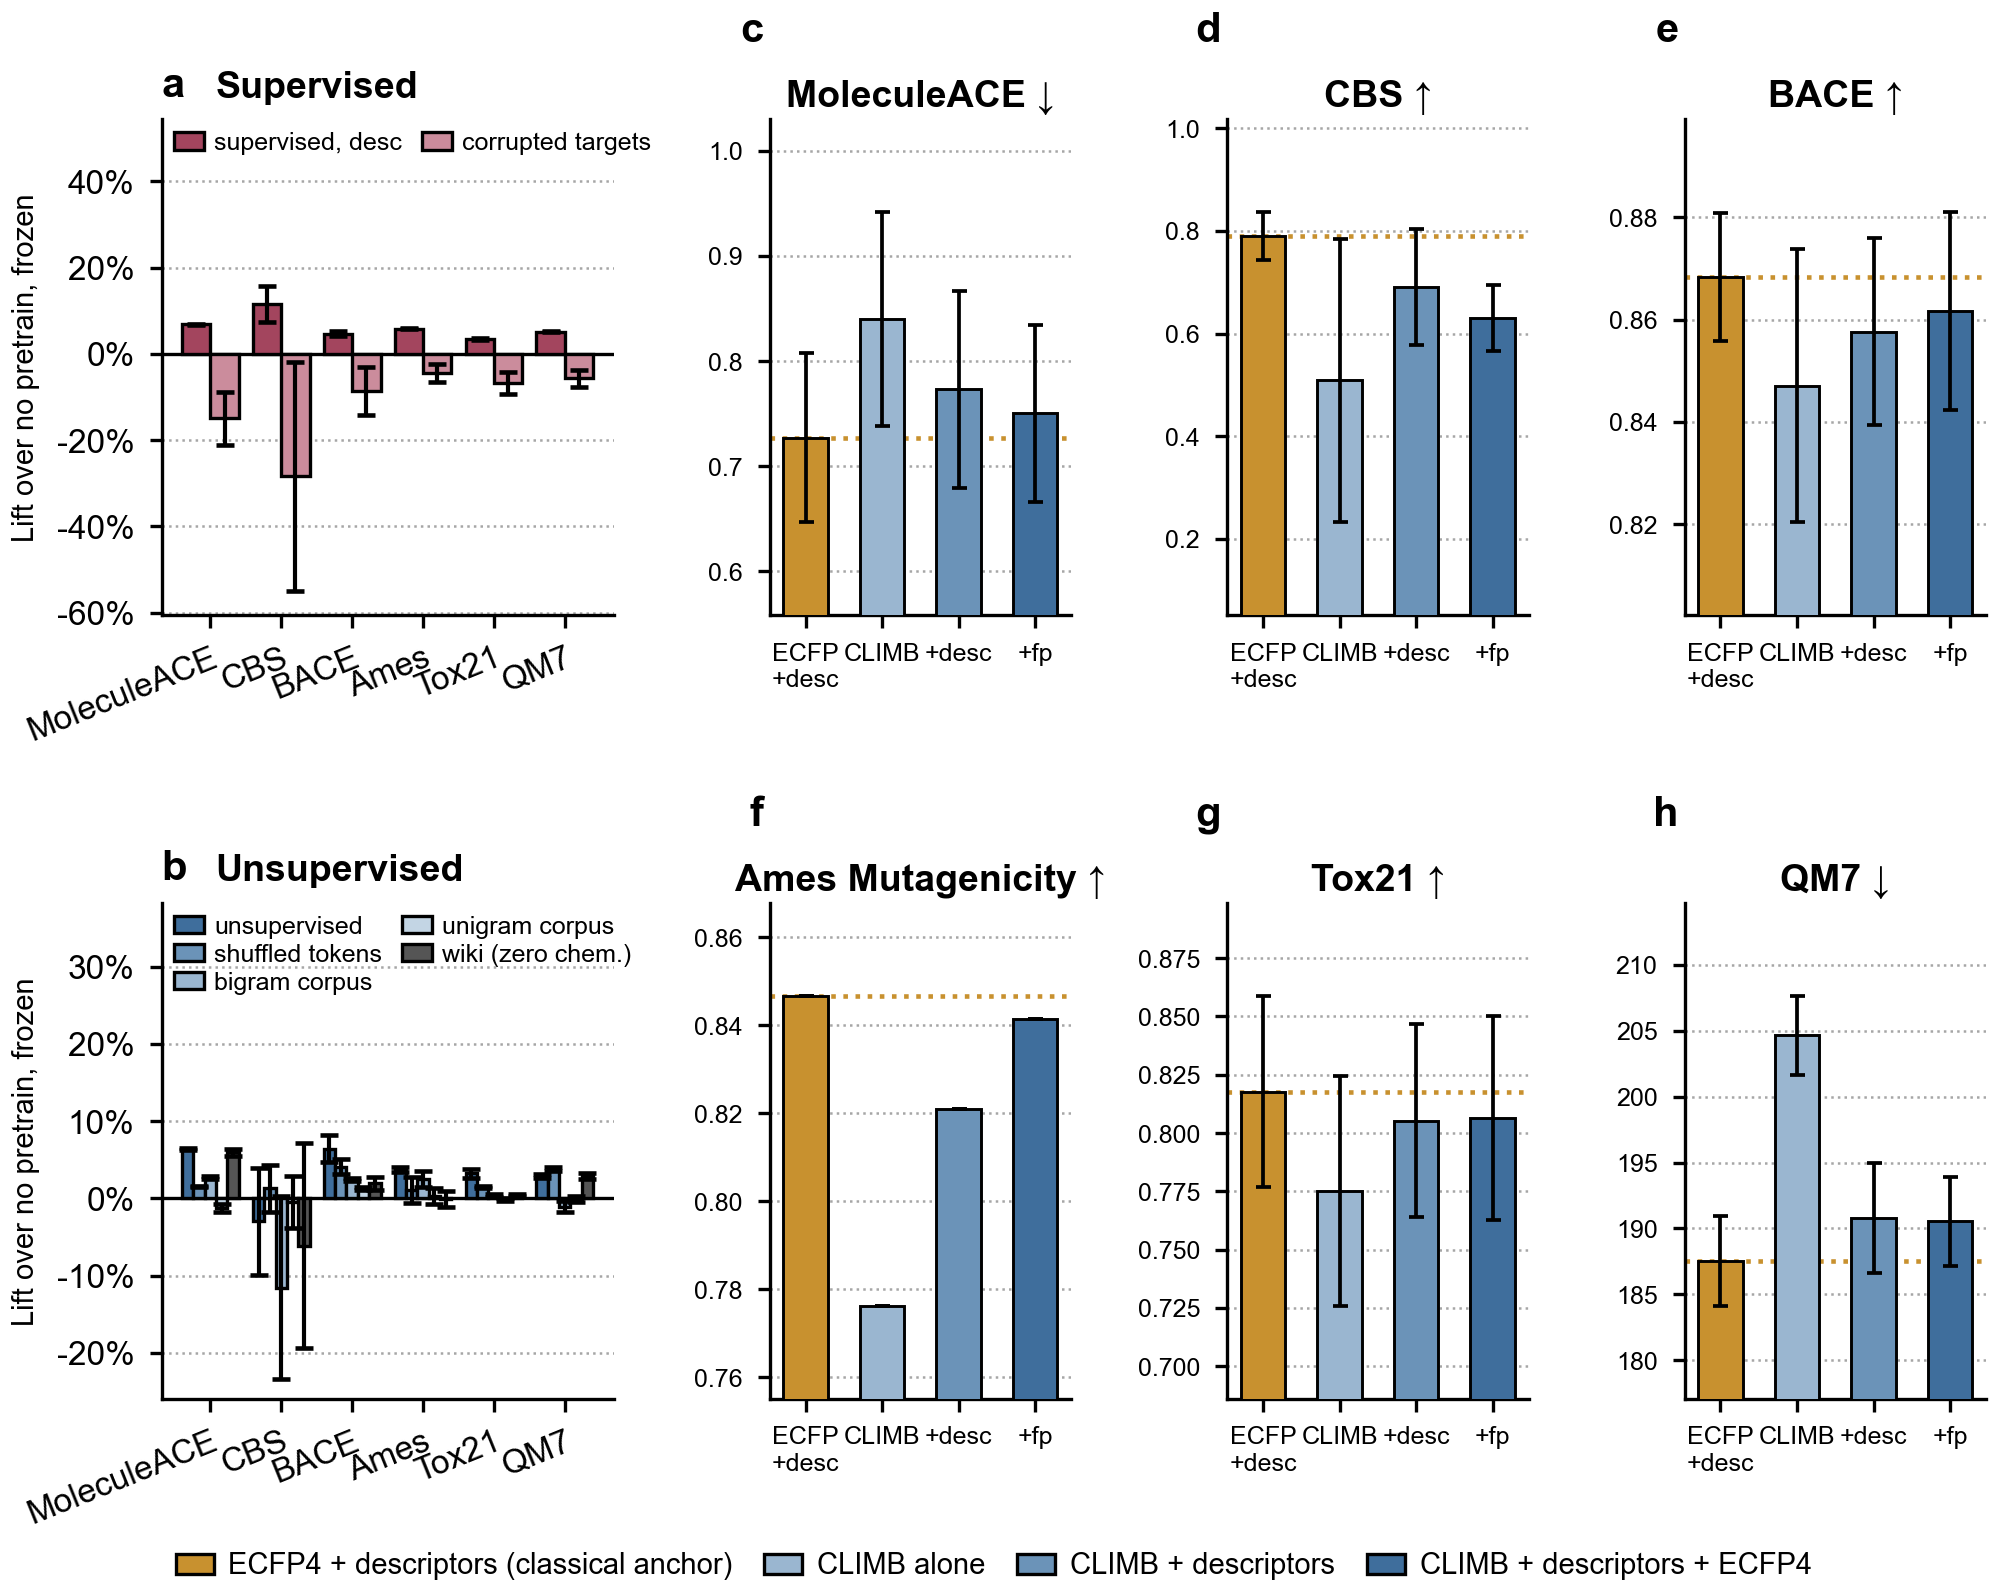
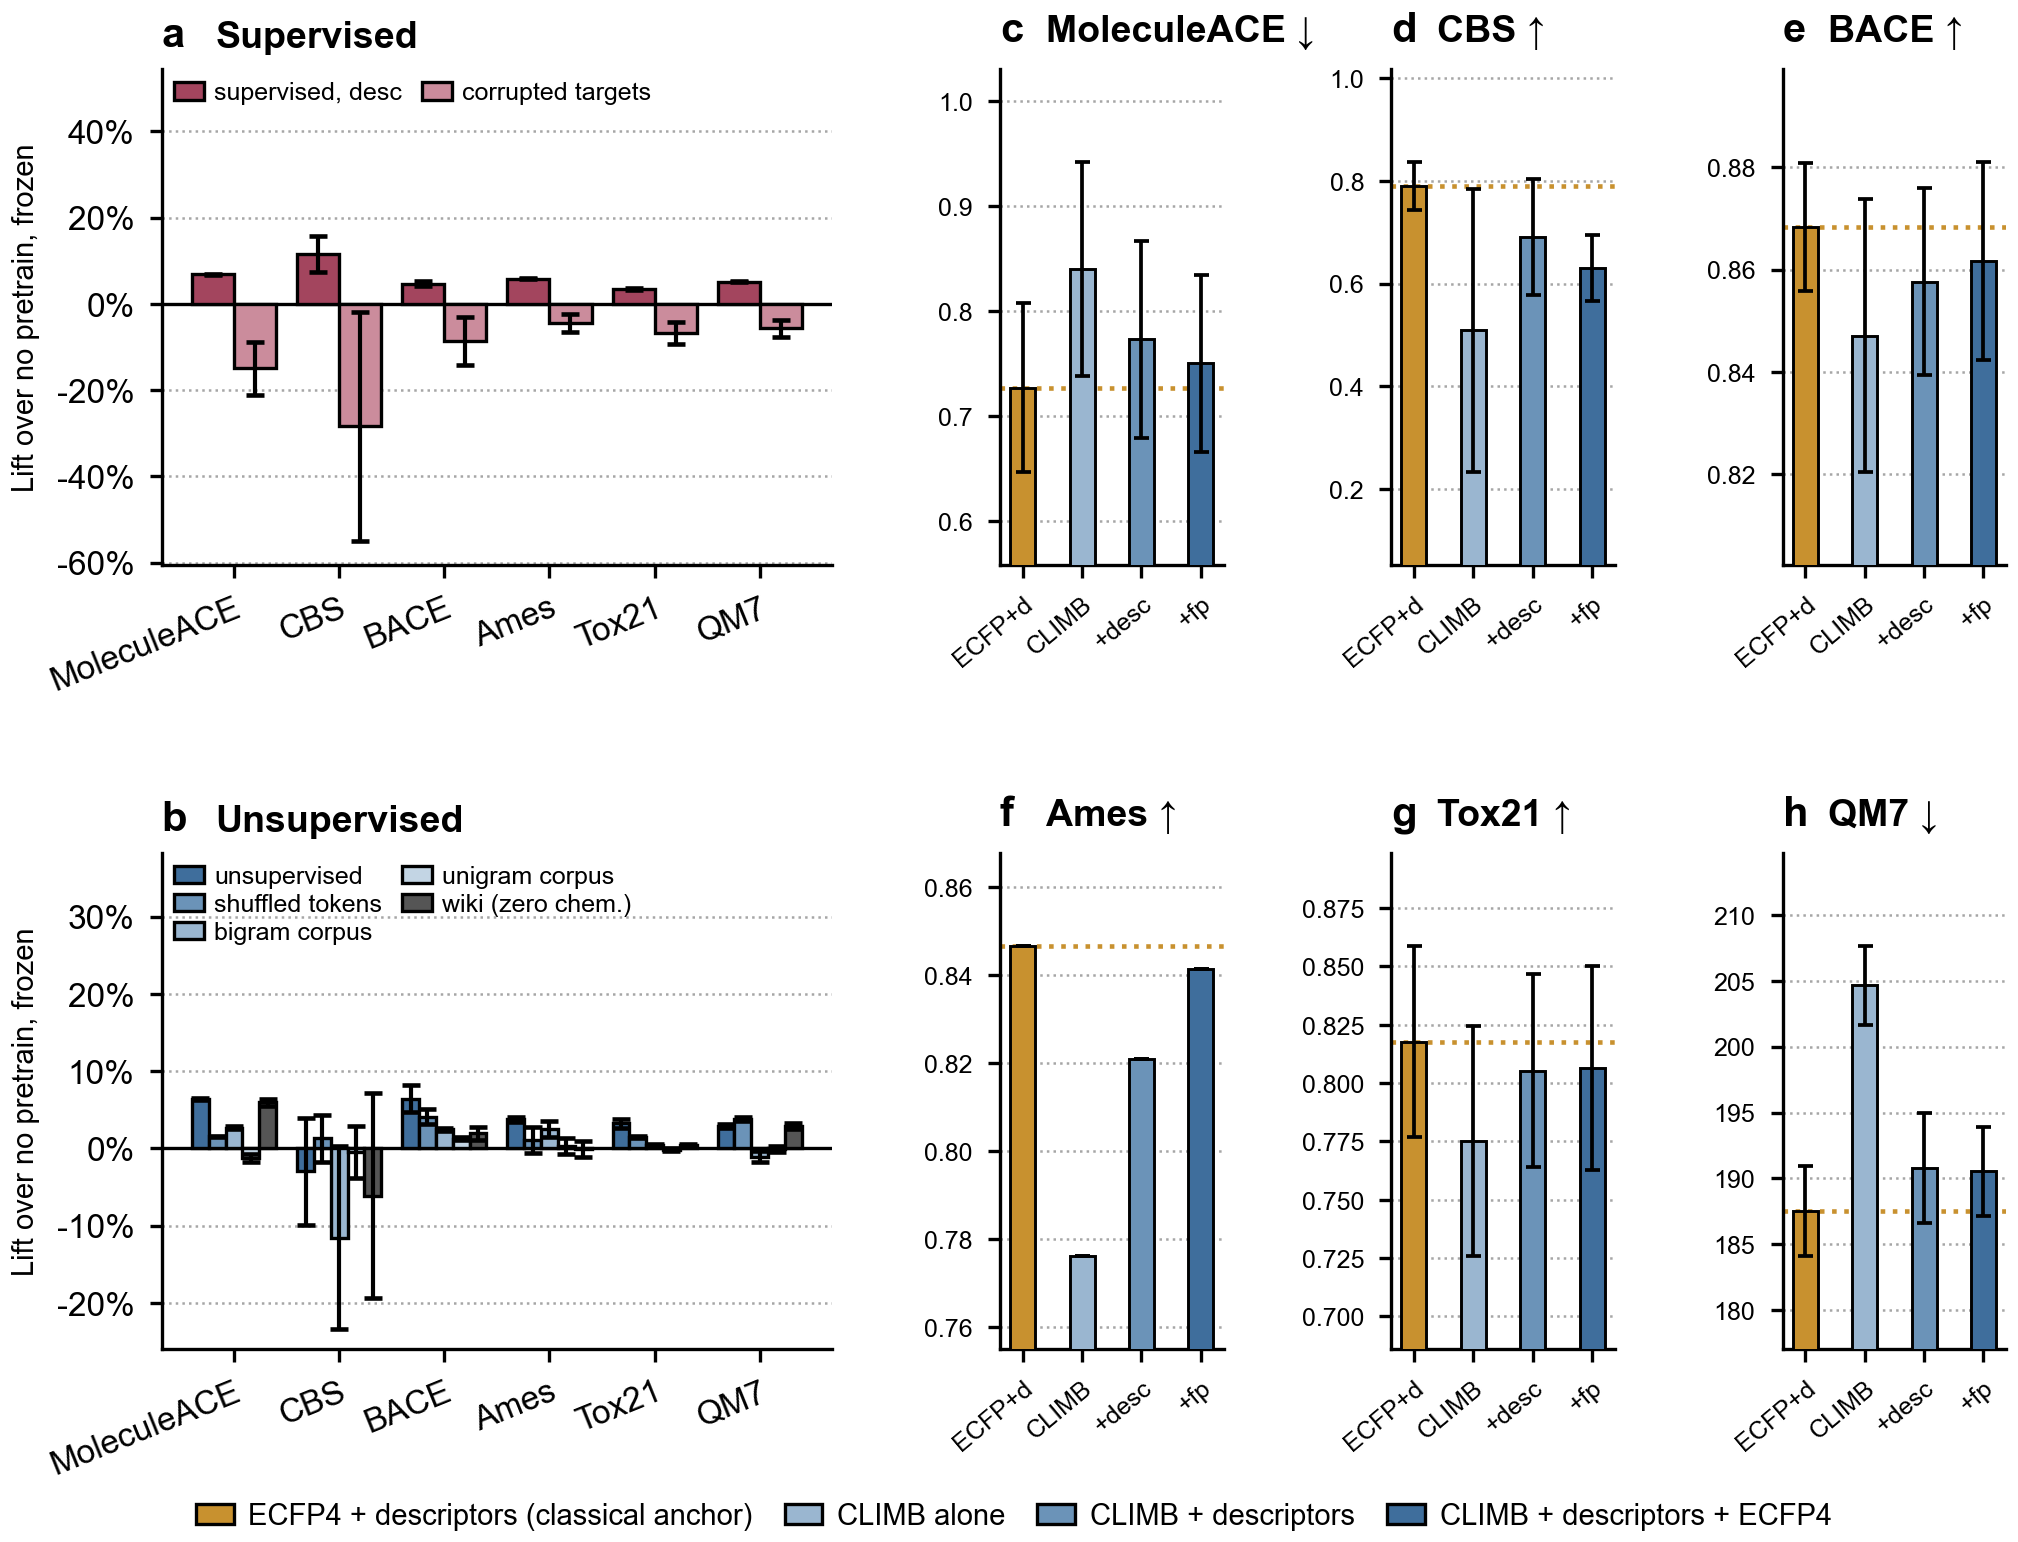
fig_EF: 50:50 E/F split, tags on the title baseline, narrower F bars
User 2026-08-19. The E column now equals the three F columns combined, so the two halves carry
equal visual weight; F's bars narrow 0.58 -> 0.42 to suit. Every panel letter now sits on the
title baseline immediately left of the title (fig_F.draw_panel gained tag=/fig=), instead of F's
letters floating above a centred title while E's sat beside theirs.

Two collisions fixed at the new width: F's two-line x labels overlapped into 'ECFPCLIMB-desc', so
in compact mode they are single-line and rotated 40 degrees; and 'Ames Mutagenicity' ran into the
next panel's tag, so the assembled figure uses the short panel name.

diff --git a/figures/fig_F.py b/figures/fig_F.py
@@ -100,14 +100,29 @@ def compute():
     return pd.concat([pd.read_csv(SRC), pd.read_csv(SRC_PANELS)], ignore_index=True)
 
 
-def draw_panel(ax, d, p, compact=False):
-    """Draw ONE canonical panel onto an existing axes. `compact` narrows the bars and drops the
-    y-label, for the assembled fig_EF where six panels share the right-hand half of the canvas."""
+def draw_panel(ax, d, p, compact=False, tag=None, fig=None):
+    """Draw ONE canonical panel onto an existing axes.
+
+    `compact` narrows the bars and drops the y-label, for the assembled fig_EF where six panels
+    share half the canvas. `tag` puts the panel letter ON THE TITLE BASELINE, immediately left of
+    the title, matching fig_E's tag/title pair -- so every panel letter in the assembled figure is
+    positioned the same way instead of F's floating above its centred title.
+    """
     meta = PANELS[p]
     task = PANEL_TASK[p]
     arrow = "↑" if meta["higher_better"] else "↓"
-    ax.set_title(f"{meta['label']} {arrow}", fontsize=FS["title"], fontweight="bold",
-                 color=INK, pad=3)
+    if tag is None:
+        ax.set_title(f"{meta['label']} {arrow}", fontsize=FS["title"], fontweight="bold",
+                     color=INK, pad=3)
+    else:
+        from matplotlib.transforms import ScaledTranslation
+        ax.text(0.0, 1.04, tag, transform=ax.transAxes, fontsize=FS["panel_tag"],
+                fontweight="bold", va="bottom", ha="left", color=INK)
+        # short label in the assembled figure: "Ames Mutagenicity" runs into the next panel's tag
+        short = {"Ames": "Ames"}.get(p, meta["label"])
+        ax.text(0.0, 1.04, f"{short} {arrow}", fontsize=FS["title"], fontweight="bold",
+                va="bottom", ha="left", color=INK,
+                transform=ax.transAxes + ScaledTranslation(11 / 72, 0, fig.dpi_scale_trans))
     if not compact:
         ax.set_ylabel(meta["metric_short"], fontsize=FS["annot"], color=INK)
     ax.grid(axis="y", ls=":", lw=0.6, color=STYLE["grid"])
@@ -126,13 +141,18 @@ def draw_panel(ax, d, p, compact=False):
     es = [float(g.loc[f, "std"]) if f in g.index else np.nan for f, _, _ in FEATURES]
     es = [0.0 if not np.isfinite(e) else e for e in es]
     cs = [c for _, _, c in FEATURES]
-    ax.bar(x, ys, width=0.58 if compact else 0.72, color=cs, edgecolor=INK, linewidth=0.7,
+    ax.bar(x, ys, width=0.42 if compact else 0.72, color=cs, edgecolor=INK, linewidth=0.7,
            yerr=es, error_kw=dict(elinewidth=0.9, capsize=1.8, capthick=0.9, ecolor=INK, zorder=6),
            zorder=3)
     ax.axhline(ys[0], color=SHADES["anchor"][0], ls=":", lw=1.1, zorder=2)
     ax.set_xticks(x)
-    ax.set_xticklabels(["ECFP\n+desc", "CLIMB", "+desc", "+fp"],
-                       fontsize=FS["annot"] - (1 if compact else 0))
+    if compact:
+        # four categories in a ~1in panel: two-line labels overlapped ("ECFPCLIMB-desc"), so they
+        # are single-line and rotated instead of shrunk to illegibility.
+        ax.set_xticklabels(["ECFP+d", "CLIMB", "+desc", "+fp"], fontsize=FS["annot"] - 1,
+                           rotation=40, ha="right", rotation_mode="anchor")
+    else:
+        ax.set_xticklabels(["ECFP\n+desc", "CLIMB", "+desc", "+fp"], fontsize=FS["annot"])
     ax.xaxis.set_minor_locator(ticker.NullLocator())
     ax.tick_params(axis="x", which="minor", bottom=False)
     if compact:

diff --git a/figures/fig_EF.py b/figures/fig_EF.py
@@ -53,9 +53,11 @@ def main():
     fig = plt.figure(figsize=(STYLE["col2"], 5.3))
     # left column carries two tall panels with six x-labels each, so it needs more width per panel
     # than the right block; 1.35 : 1 : 1 : 1 keeps "MoleculeACE" legible on the E axes.
-    gs = GridSpec(2, 4, figure=fig, width_ratios=[1.5, 1.0, 1.0, 1.0],
-                  wspace=0.46, hspace=0.58,
-                  left=0.085, right=0.995, top=0.930, bottom=0.125)
+    # 50:50 (user 2026-08-19) -- the E column equals the three F columns combined, so the two
+    # halves of the figure carry equal visual weight. F's bars narrow to 0.42 to suit.
+    gs = GridSpec(2, 4, figure=fig, width_ratios=[3.0, 1.0, 1.0, 1.0],
+                  wspace=0.50, hspace=0.58,
+                  left=0.075, right=0.995, top=0.930, bottom=0.125)
 
     # extra top padding buys room for the in-axes legends, which have 2 and 5 entries
     ylims = {panel: E._lim(dE[dE.panel == panel], pad_hi=hi)
@@ -69,9 +71,7 @@ def main():
     tags = "cdefgh"
     for k, p in enumerate(PANEL_ORDER):
         ax = fig.add_subplot(gs[k // 3, 1 + k % 3])
-        F.draw_panel(ax, dF, p, compact=True)
-        ax.text(-0.02, 1.14, tags[k], transform=ax.transAxes, fontsize=FS["panel_tag"],
-                fontweight="bold", va="bottom", ha="right", color=STYLE["ink"])
+        F.draw_panel(ax, dF, p, compact=True, tag=tags[k], fig=fig)
 
     fig.legend(handles=F.legend_handles(), loc="lower center", bbox_to_anchor=(0.5, 0.002),
                ncol=4, fontsize=FS["legend"], handletextpad=0.5, columnspacing=1.1,
